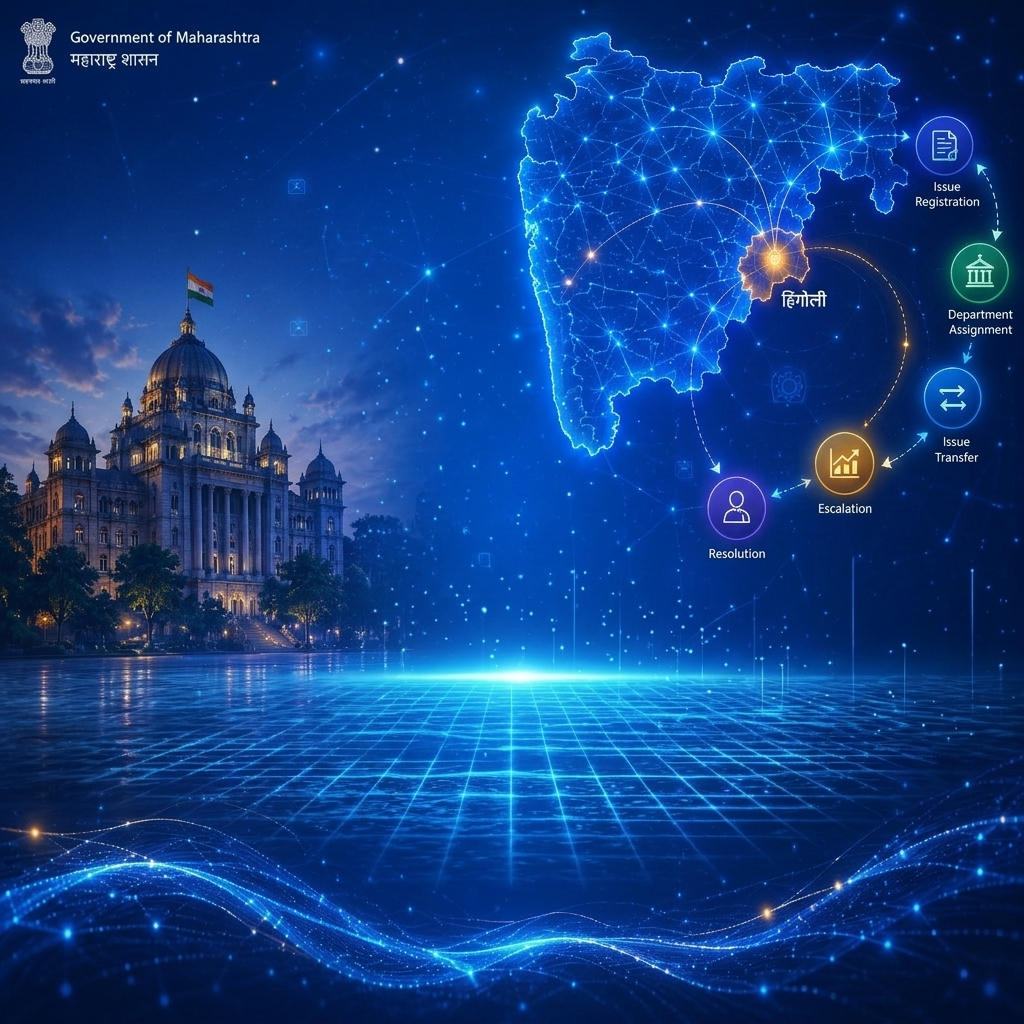
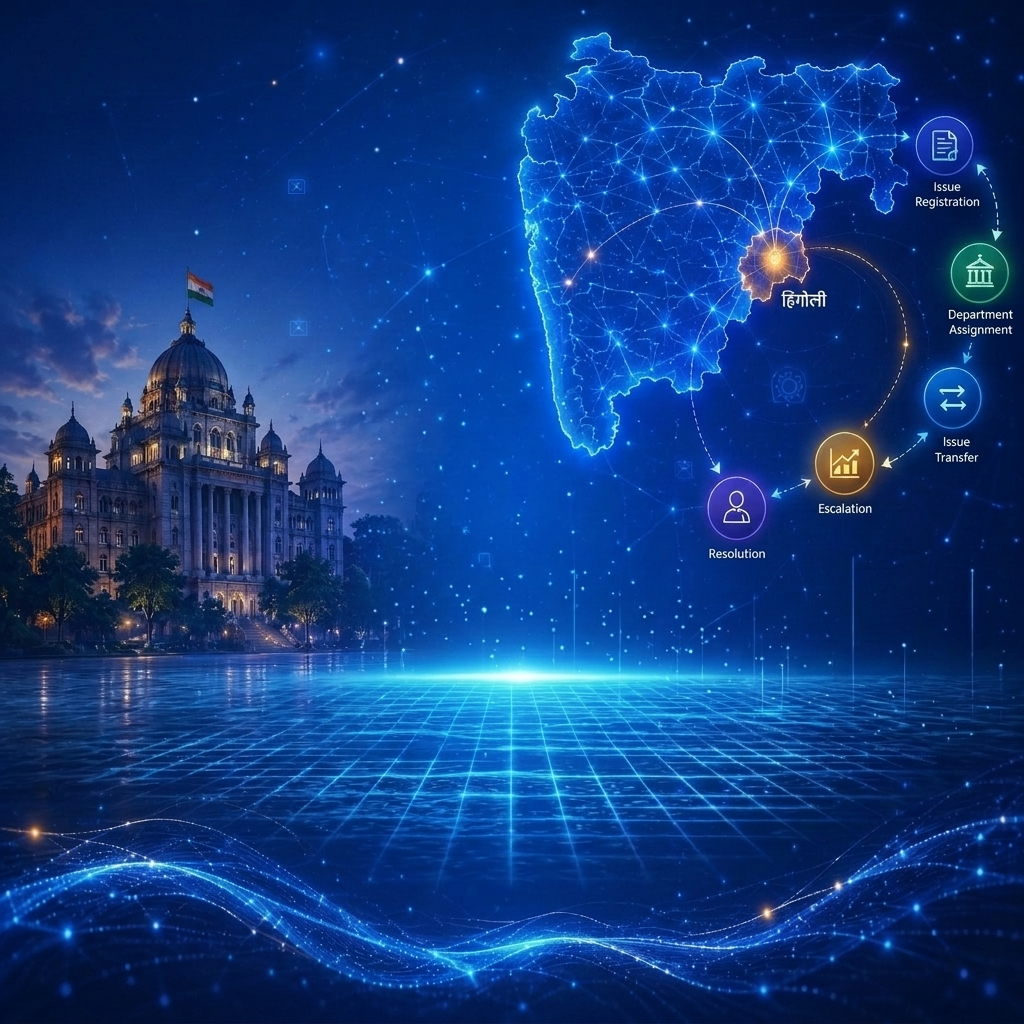
pravin/feat/new__login_page_background_020726

Changed region(s): [[0.0, 0.0, 0.25, 0.0938], [0.25, 0.4375, 0.2812, 0.4688], [0.125, 0.375, 0.1562, 0.4062]]

diff --git a/login.php b/login.php
@@ -20,7 +20,7 @@ $active_page = 'login';
 $page_title = 'Login';
 $page_description = 'Login to the Zilla Parishad Hingoli Inter Department Portal.';
 
-include __DIR__ . '/include/header.php';
+// include __DIR__ . '/include/header.php';
 ?>
 <!-- Page-specific styles (Bootstrap and custom overrides) -->
 <link href="https://cdn.jsdelivr.net/npm/bootstrap@5.3.2/dist/css/bootstrap.min.css" rel="stylesheet">
@@ -32,31 +32,46 @@ include __DIR__ . '/include/header.php';
         --primary: #005af0;
     }
 
+    body {
+        background: url('assets/login_background.png?v=2') no-repeat center center fixed !important;
+        background-size: 100% 100% !important;
+        margin: 0;
+        padding: 0;
+        min-height: 100vh;
+    }
+
     .main-content {
         min-height: calc(100vh - var(--header-height));
         display: flex;
         flex-direction: column;
         align-items: center;
         justify-content: center;
-        padding: 2rem 1rem;
-        background: url('assets/login_background.png');
-        background-size: 100% 100%;
-        background-position: center;
-        background-repeat: no-repeat;
+        padding: 3rem 21rem;
+        background: transparent !important;
         transition: background var(--transition-normal);
+    }
+
+    @media (min-width: 992px) {
+        .login-card {
+            margin-left: 1% !important;
+            margin-right: auto !important;
+        }
     }
 
     .login-card {
         width: 100%;
         max-width: var(--card-width);
-        background: rgba(235, 240, 248, 0.94);
-        backdrop-filter: blur(16px);
-        -webkit-backdrop-filter: blur(16px);
+        background: rgba(15, 23, 42, 0.18) !important;
+        backdrop-filter: blur(20px) !important;
+        -webkit-backdrop-filter: blur(20px) !important;
         border-radius: var(--card-radius);
-        box-shadow: 0 20px 50px rgba(0, 0, 0, 0.3);
-        padding: 2.5rem 2.2rem;
+        box-shadow: 0 25px 50px -12px rgba(0, 0, 0, 0.5), inset 0 1px 1px rgba(255, 255, 255, 0.2) !important;
+        padding: 1.8rem 2rem;
         z-index: 10;
-        border: 1px solid rgba(255, 255, 255, 0.4);
+        border: 1px solid rgba(255, 255, 255, 0.15) !important;
+        margin-left: auto;
+        margin-right: auto;
+        transition: all 0.3s ease;
     }
 
     .portal-title {
@@ -65,40 +80,41 @@ include __DIR__ . '/include/header.php';
         font-size: 1.6rem;
         text-align: center;
         margin-bottom: 0.2rem;
-        color: #0f2942;
+        color: #ffffff;
+        text-shadow: 0 2px 10px rgba(0, 0, 0, 0.4);
     }
 
     .portal-sub {
         font-size: 0.95rem;
         text-align: center;
-        color: #5a6e85;
-        margin-bottom: 1.8rem;
+        color: #cbd5e1;
+        margin-bottom: 1rem;
     }
 
     .form-label {
         font-weight: 600;
         font-size: 0.9rem;
-        color: #0f2942;
-        margin-bottom: 0.4rem;
+        color: #f1f5f9;
+        margin-bottom: 0.25rem;
     }
 
     .input-group {
-        border: 1px solid #d1d5db;
+        border: 1px solid rgba(255, 255, 255, 0.15) !important;
         border-radius: 10px;
         overflow: hidden;
-        background: #ffffff;
-        transition: border-color 0.2s, box-shadow 0.2s;
+        background: rgba(255, 255, 255, 0.08) !important;
+        transition: all 0.3s ease;
     }
 
     .input-group:focus-within {
-        border-color: var(--primary);
-        box-shadow: 0 0 0 3px rgba(0, 90, 240, 0.15);
+        border-color: #38bdf8 !important;
+        box-shadow: 0 0 15px rgba(56, 189, 248, 0.25) !important;
     }
 
     .input-group-text {
         background: transparent;
         border: none;
-        color: #5a6e85;
+        color: #38bdf8 !important;
         font-size: 1.1rem;
         padding-left: 1rem;
         padding-right: 0.5rem;
@@ -109,55 +125,58 @@ include __DIR__ . '/include/header.php';
         border: none !important;
         height: 50px;
         font-size: 0.95rem;
-        color: #0f2942 !important;
+        color: #ffffff !important;
         box-shadow: none !important;
         padding-left: 0.5rem;
     }
 
     .form-control::placeholder {
-        color: #94a3b8;
+        color: rgba(255, 255, 255, 0.45) !important;
     }
 
     #togglePassword {
         background: transparent;
         border: none;
-        color: #5a6e85;
+        color: #38bdf8;
         padding-right: 1rem;
         cursor: pointer;
     }
 
     .btn-login {
-        background: var(--primary);
-        border: none;
+        background: linear-gradient(135deg, #005af0, #00c6ff) !important;
+        border: none !important;
         font-weight: 600;
         height: 50px;
         font-size: 1rem;
         border-radius: 10px;
         color: #ffffff;
-        transition: background-color 0.2s, transform 0.1s;
+        box-shadow: 0 4px 15px rgba(0, 90, 240, 0.3) !important;
+        transition: all 0.3s cubic-bezier(0.4, 0, 0.2, 1) !important;
     }
 
     .btn-login:hover {
-        background: #004ecc;
+        background: linear-gradient(135deg, #004ecc, #00a8e0) !important;
+        transform: translateY(-2px) !important;
+        box-shadow: 0 8px 20px rgba(0, 198, 255, 0.4) !important;
     }
 
     .btn-login:active {
-        transform: scale(0.98);
+        transform: translateY(0) scale(0.98) !important;
     }
 
     .forgot-link {
         display: block;
         text-align: center;
-        margin-top: 1.2rem;
+        margin-top: 0.8rem;
         font-size: 0.9rem;
-        color: var(--primary);
+        color: #38bdf8;
         font-weight: 500;
         text-decoration: none;
         transition: color 0.2s;
     }
 
     .forgot-link:hover {
-        color: #004ecc;
+        color: #7dd3fc;
         text-decoration: underline;
     }
 
@@ -165,7 +184,7 @@ include __DIR__ . '/include/header.php';
         display: flex;
         align-items: center;
         gap: 0.75rem;
-        margin: 1.5rem 0;
+        margin: 0.9rem 0;
         color: #94a3b8;
         font-size: 0.85rem;
     }
@@ -183,9 +202,9 @@ include __DIR__ . '/include/header.php';
         align-items: center;
         justify-content: center;
         width: 100%;
-        background: rgba(0, 90, 240, 0.08);
-        border: 1px solid var(--primary);
-        color: #0f2942;
+        background: rgba(255, 255, 255, 0.05);
+        border: 1px solid rgba(255, 255, 255, 0.15);
+        color: #ffffff;
         font-weight: 600;
         padding: 0.75rem;
         height: 50px;
@@ -193,13 +212,14 @@ include __DIR__ . '/include/header.php';
         border-radius: 10px;
         text-align: center;
         text-decoration: none;
-        transition: background 0.2s, color 0.2s, border-color 0.2s;
+        transition: all 0.3s ease;
     }
 
     .btn-register:hover {
-        background: rgba(0, 90, 240, 0.15);
-        color: var(--primary);
-        border-color: var(--primary);
+        background: rgba(255, 255, 255, 0.12);
+        color: #38bdf8;
+        border-color: #38bdf8;
+        box-shadow: 0 0 15px rgba(255, 255, 255, 0.05);
     }
 
     .error-box {
@@ -213,26 +233,50 @@ include __DIR__ . '/include/header.php';
         text-align: center;
     }
 
+    @media (max-width: 1024px) {
+        body {
+            background-image: none !important;
+            background-color: #ebf0f8 !important;
+        }
+        body.dark-theme {
+            background-image: none !important;
+            background-color: #0f172a !important;
+        }
+        .main-content {
+            background: transparent !important;
+        }
+    }
+
+    @media (max-width: 768px) {
+        .login-card {
+            max-width: 100% !important;
+            width: 92% !important;
+            padding: 2rem 1.5rem !important;
+            margin: 1rem auto !important;
+        }
+    }
+
     @media (max-width: 480px) {
         .login-card {
-            padding: 2rem 1.5rem;
-            margin: 1rem;
+            padding: 1.5rem 1rem !important;
         }
         .portal-title {
-            font-size: 1.4rem;
+            font-size: 1.35rem;
         }
     }
 
     /* --- Dark Theme Integration --- */
+    body.dark-theme {
+        background: url('assets/login_background.png?v=2') no-repeat center center fixed !important;
+        background-size: 100% 100% !important;
+    }
+
     body.dark-theme .main-content {
-        background: url('assets/login_background.png');
-        background-size: 100% 100%;
-        background-position: center;
-        background-repeat: no-repeat;
+        background: transparent !important;
     }
 
     body.dark-theme .login-card {
-        background: rgba(15, 23, 42, 0.92) !important;
+        background: transparent !important;
         border: 1px solid rgba(255, 255, 255, 0.08) !important;
         box-shadow: 0 20px 50px rgba(0, 0, 0, 0.6) !important;
     }
@@ -285,7 +329,7 @@ include __DIR__ . '/include/header.php';
                 <div class="error-box"><?php echo $error; ?></div>
             <?php endif; ?>
 
-            <div class="mb-3">
+            <div class="mb-2">
                 <label class="form-label" for="username">Username</label>
                 <div class="input-group">
                     <span class="input-group-text"><i class="bi bi-person"></i></span>
@@ -293,7 +337,7 @@ include __DIR__ . '/include/header.php';
                 </div>
             </div>
 
-            <div class="mb-3">
+            <div class="mb-2">
                 <label class="form-label" for="password">Password</label>
                 <div class="input-group">
                     <span class="input-group-text"><i class="bi bi-lock"></i></span>